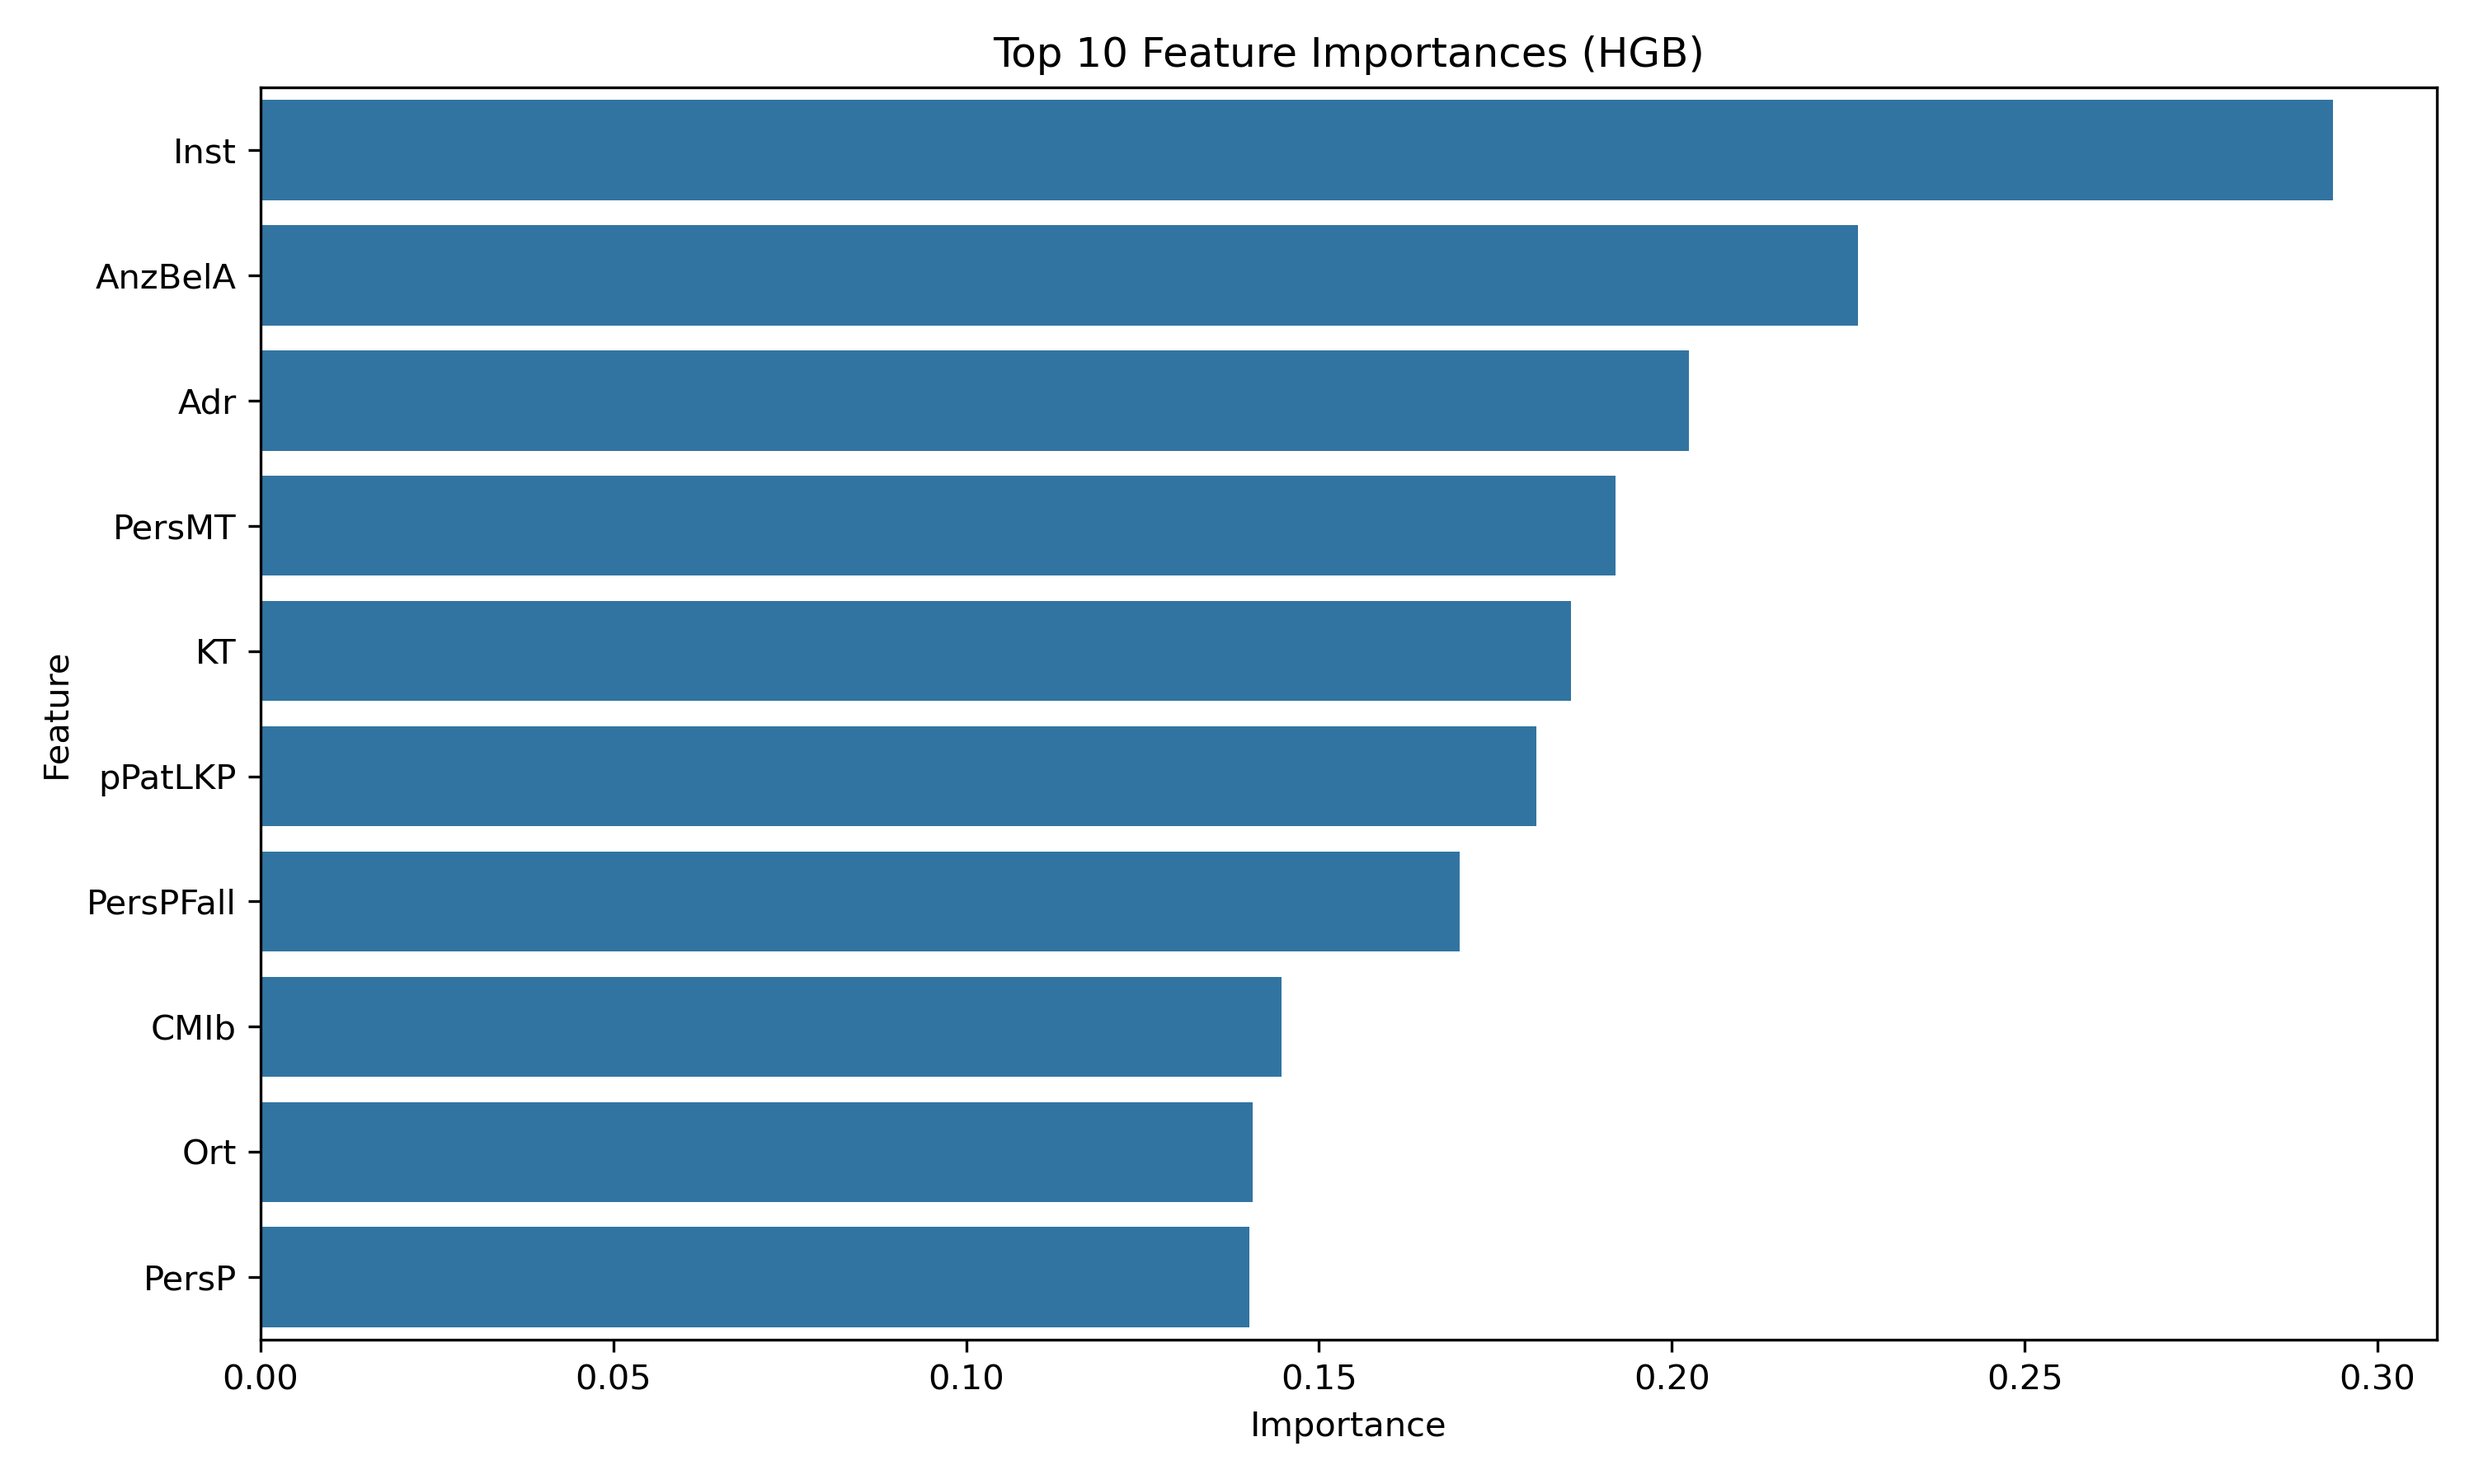
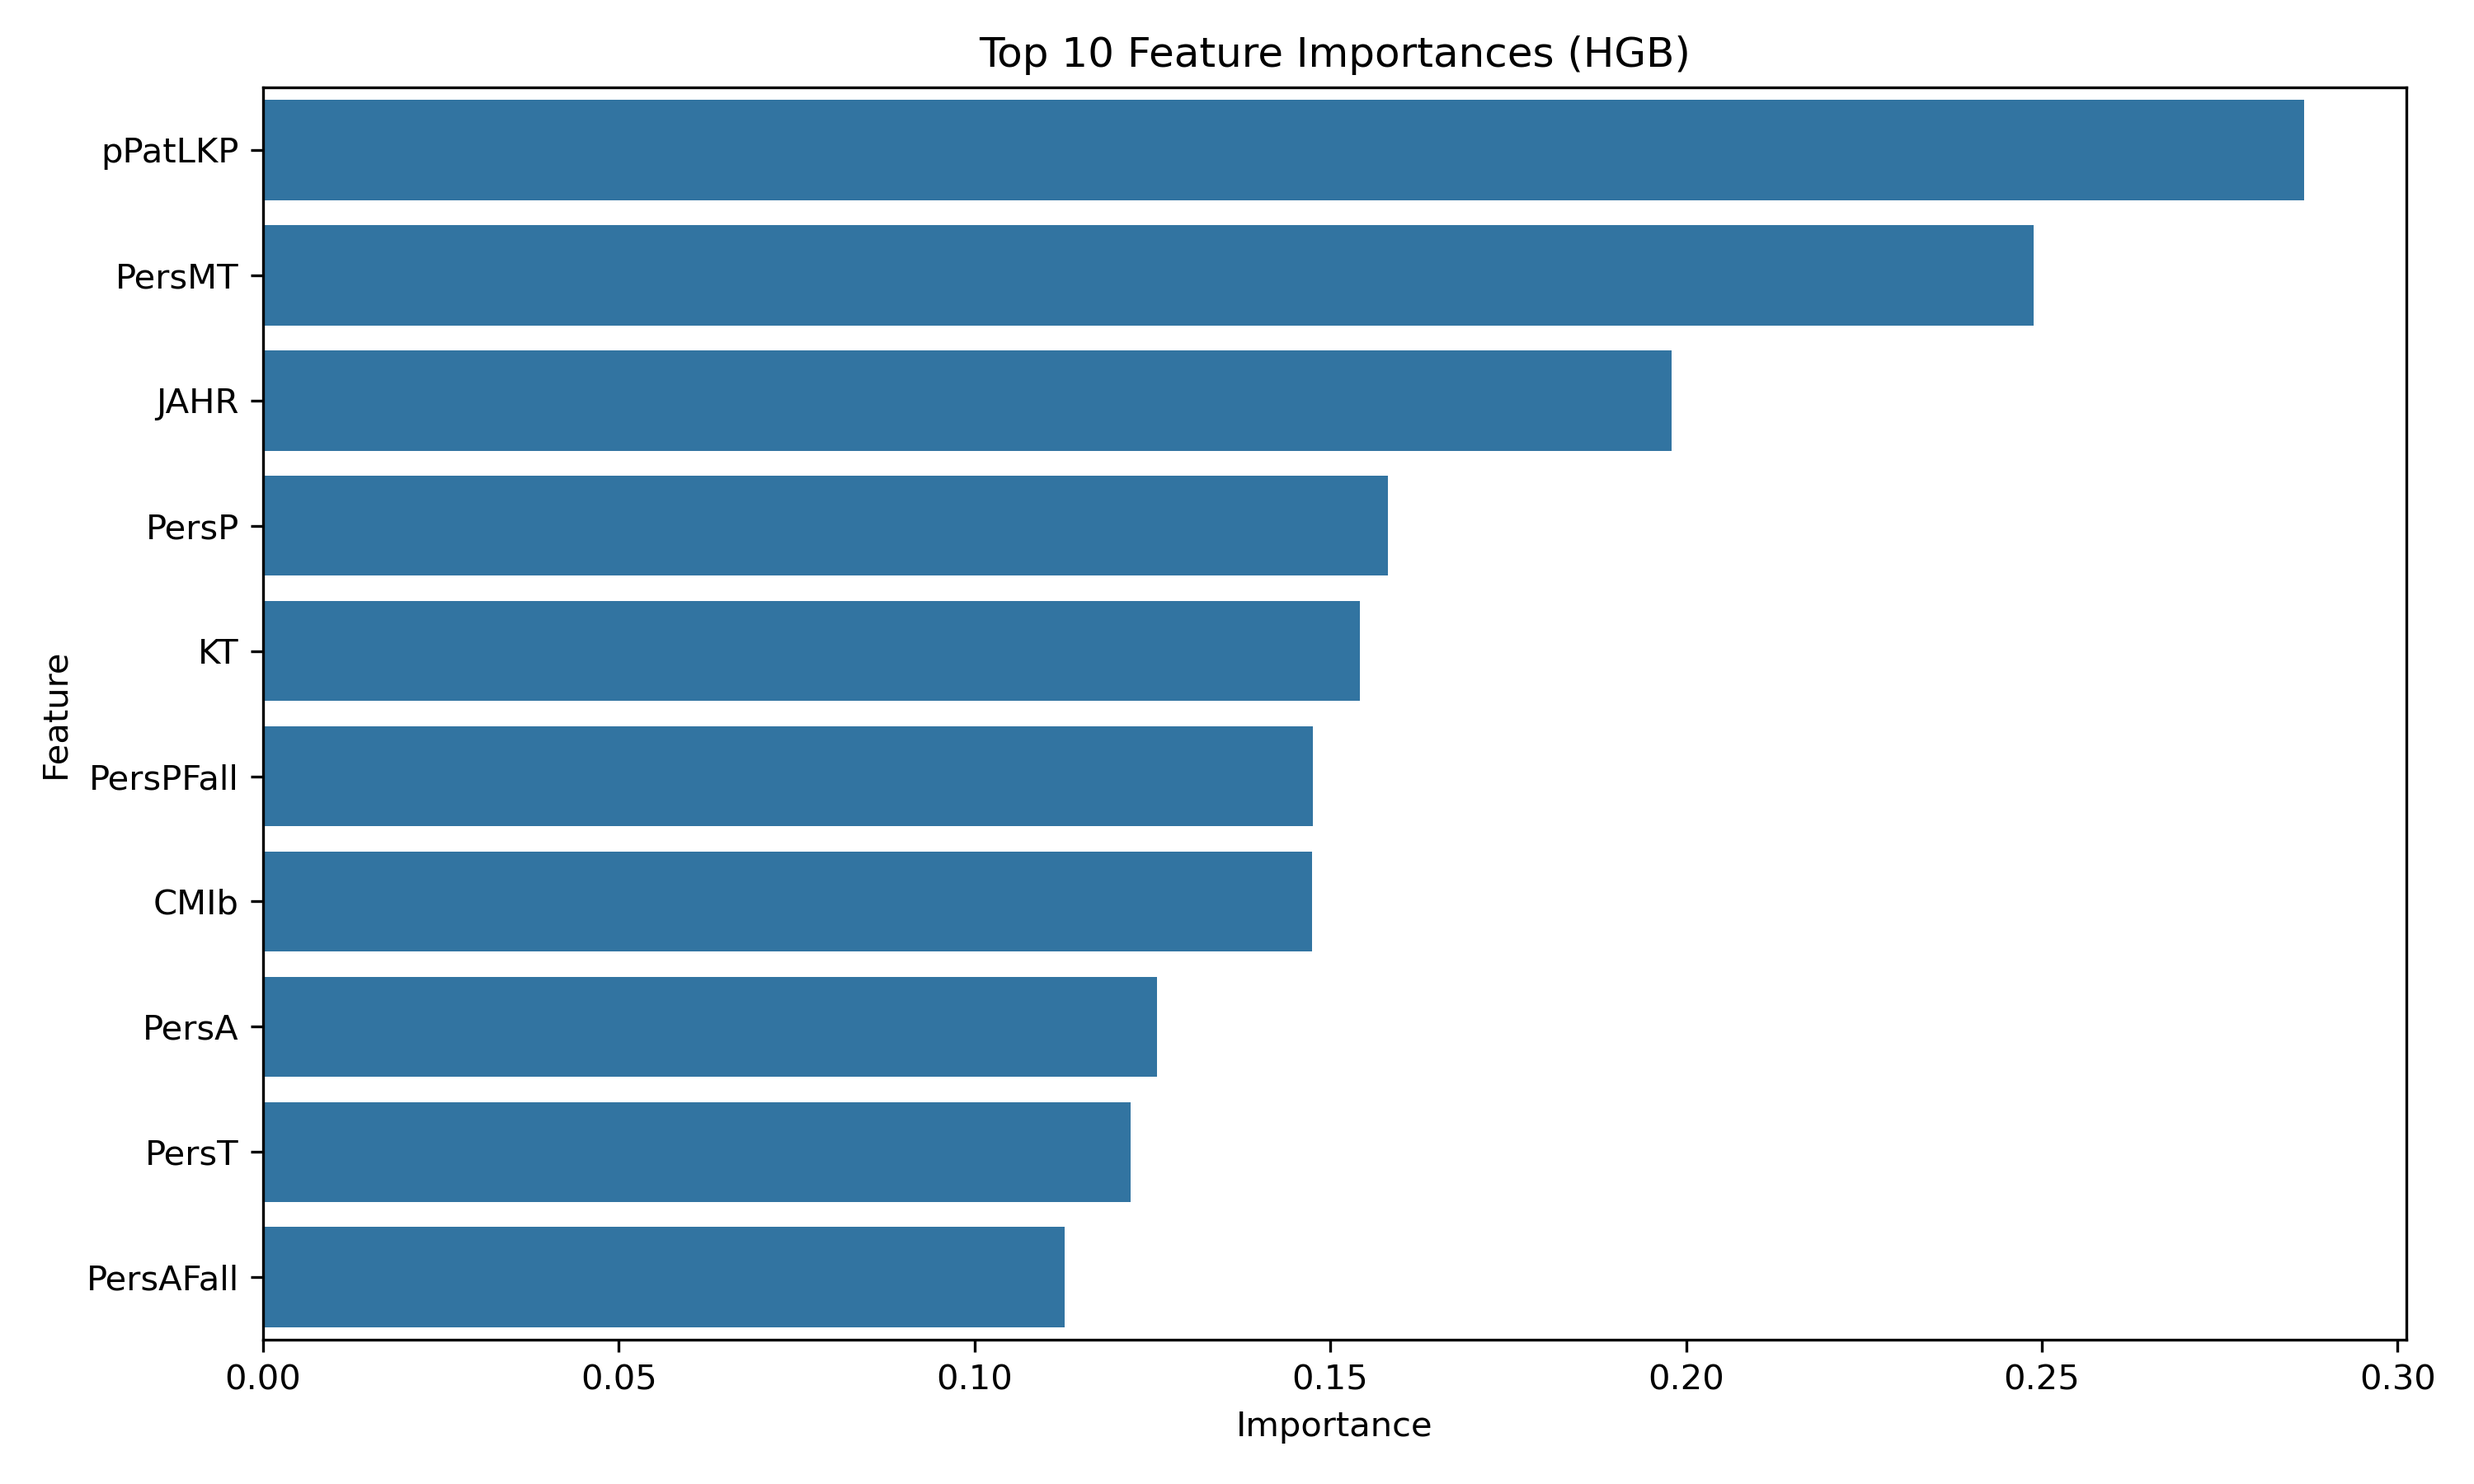
-

diff --git a/Logistic_Regression.py b/Logistic_Regression.py
@@ -20,9 +20,53 @@ import os
 
 
 #Transforming object col into category
-data[cat_features] = data[cat_features].astype('category')
+#data[cat_features] = data[cat_features].astype('category')
+
+####################### NEW SPLITTING DATA ####################################################
+X = data[features]
+y = data[label]
+
+yeares = data["JAHR"]
+
+#for all years
+if current_year == "all":
+    stratify_col = y.astype(str) + "_" + yeares.astype(str)
+
+else:
+    stratify_col = y
+
+X_train, X_test, y_train, y_test = train_test_split(
+    X, y, test_size=0.2, random_state=10, stratify= stratify_col)  #for all years also stratify years
 
 
+############################ NEW MISSING DATA HANDLING ###########################################
+
+#Filling Categorical Columns
+for n in cat_features:
+    X_train[n] = X_train[n].fillna("NA")
+    X_test[n] = X_test[n].fillna("NA")
+
+#Filling Numeric Columns
+for i in X_train[num_features]:
+    X_train[i] = X_train[i].fillna(X_train[i].mean())
+    X_test[i] = X_test[i].fillna(X_train[i].mean())      # To ensure consistency with X_train's mean
+
+
+X_train[cat_features] = X_train[cat_features].astype('category')
+X_test[cat_features] = X_test[cat_features].astype('category')
+
+######################### NEW ONE HOT ENCODING ##################################################################
+X_train = pd.get_dummies(X_train, columns=cat_features, drop_first=True)
+
+X_test = pd.get_dummies(X_test, columns=cat_features, drop_first=True)
+X_test = X_test.reindex(columns=X_train.columns, fill_value=0)
+
+####################### NEW SCALING (after splitting!!) ###############################################################
+sc = StandardScaler()
+X_train[num_features] = sc.fit_transform(X_train[num_features])
+X_test[num_features]  = sc.transform(X_test[num_features])
+
+""""
 ######################## ONE HOT ENCODING ##############################################################################
 features_encoded = pd.get_dummies(data[features], columns=cat_features, drop_first=True)
 cat_features_encoded = [col for col in features_encoded.columns if any(orig in col for orig in cat_features)]
@@ -63,7 +107,7 @@ for j in X_train[num_features]:  # To ensure consistency with X_train's mean
 sc = StandardScaler()
 X_train[num_features] = sc.fit_transform(X_train[num_features])
 X_test[num_features]  = sc.transform(X_test[num_features])
-
+"""
 
 ##################### EVALUATION METRICS ###############################################################################
 def eval_Performance(y_eval, X_eval, clf, clf_name = 'My Classifier'):
@@ -145,7 +189,7 @@ print(df_performance)
 
 #L1 REGULARIZATION
 param_grid = {
-    "C": [0.01, 0.1, 1.0],  # Regularization strength
+    "C": [0.01, 0.1, 1.0, 10.0],  # Regularization strength
     "penalty": ["l1"],  # L1 regularization
     "solver": ["liblinear"]  # Solver for logistic regression
 }
@@ -187,7 +231,7 @@ print(f"Selected features: {L1_selected_features}")
 #L2 REGULARIZATION
 
 param_grid = {
-    "C": [0.01, 0.1, 1.0],  # Regularization strength
+    "C": [0.01, 0.1, 1.0, 10.0],  # Regularization strength
     "penalty": ["l2"],  #L2 regularization
     "solver": ["liblinear"]  # Solver for logistic regression
 }
@@ -223,7 +267,7 @@ df_performance.loc['LR (train,L2)', :] = eval_Performance(y_train, X_train, clf_
 
 #Recursive Feature Eliminiation with Cross-Validation
 
-log_reg = LogisticRegression(class_weight='balanced', solver="liblinear", random_state=10, C=1.0)
+log_reg = LogisticRegression(class_weight='balanced', solver="liblinear", random_state=10)
 
 rfe_cv = RFECV(estimator=log_reg, step=1, cv=5, scoring='roc_auc')
 rfe_cv.fit(X_train, y_train)

diff --git a/SVM.py b/SVM.py
@@ -10,6 +10,7 @@ import shap
 import matplotlib.pyplot as plt
 import seaborn as sns
 from Data_Preparation import df
+from Data_Preparation import *
 import os
 
 # --- Parameters --------
@@ -17,7 +18,9 @@ tt_size = 0.2
 n_ftrs = 10
 #yr = 2011
 model_type = "svc"  # Options: 'svc', 'hgb'
-data = df.copy()
+
+
+#data = df.copy()
 
 md_choice = input('Which model do you prefer? (default is svc) ')
 
@@ -42,7 +45,7 @@ for i in md_choice.split(' '):
 #data = df.copy()
 #data = df[df["JAHR"]==yr].copy()
 
-
+"""
 label = "FiErg"
 features = ["KT", "Inst", "Adr", "Ort", "Typ", "RWStatus", "Akt", "SL", "WB", "AnzStand",
             "SA", "PtageStatT", "AustStatT", "NeugStatT", "Ops", "Gebs", "CMIb", "CMIn",
@@ -63,11 +66,12 @@ if "AnzBelP (nur ab KZP2010)" in data.columns:
 
 # Binary target
 data[label] = (data[label] > 0).astype(int)
+"""
 
 # Split
 X = data[features]
 y = data[label]
-X_train, X_test, y_train, y_test = train_test_split(X, y, test_size=tt_size, random_state=42)
+X_train, X_test, y_train, y_test = train_test_split(X, y, test_size=tt_size, random_state=42) #stratifying ???????????????????????????????????????????????????????????
 
 # Feature types
 numerical_features = X.select_dtypes(include=["int64", "float64"]).columns.tolist()

diff --git a/Data_Preparation.py b/Data_Preparation.py
@@ -28,12 +28,16 @@ features = ["KT","Inst", "Adr",  "Ort", "Typ", "RWStatus", "Akt", "SL", "WB", "A
             "pPatWAU","pPatWAK", "pPatLKP","pPatHOK","PersA","PersP","PersMT","PersT","PersAFall","PersPFall","PersMTFall","PersTFall","AnzBelA","AnzBelP (nur ab KZP2010)"]
 
 #for all years
-features.append("JAHR")
-data["JAHR"] = data["JAHR"].astype("category")
+#features.append("JAHR")
+data["JAHR"] = data["JAHR"].astype("object")
 
 
 #New data declaration
-data = data[features + [label]]
+if current_year == "all":
+    data = data[features + [label] + ["JAHR"]]
+else:
+    data = data[features + [label]]
+
 print("New data set shape:", data.shape)
 
 #DROPPING COLUMNS
@@ -50,8 +54,8 @@ data = data.drop(columns=["Ort"])
 features.remove("Ort")
 
 #Dropping SA !!!!!!!!!!!!!!!!!!!!!!!!!!!!!!!!!!!!!!!!!!
-data = data.drop(columns=["SA"])
-features.remove("SA")
+#data = data.drop(columns=["SA"])
+#features.remove("SA")
 
 #Dropping Columns with 100% Missing Data
 #columns to drop
